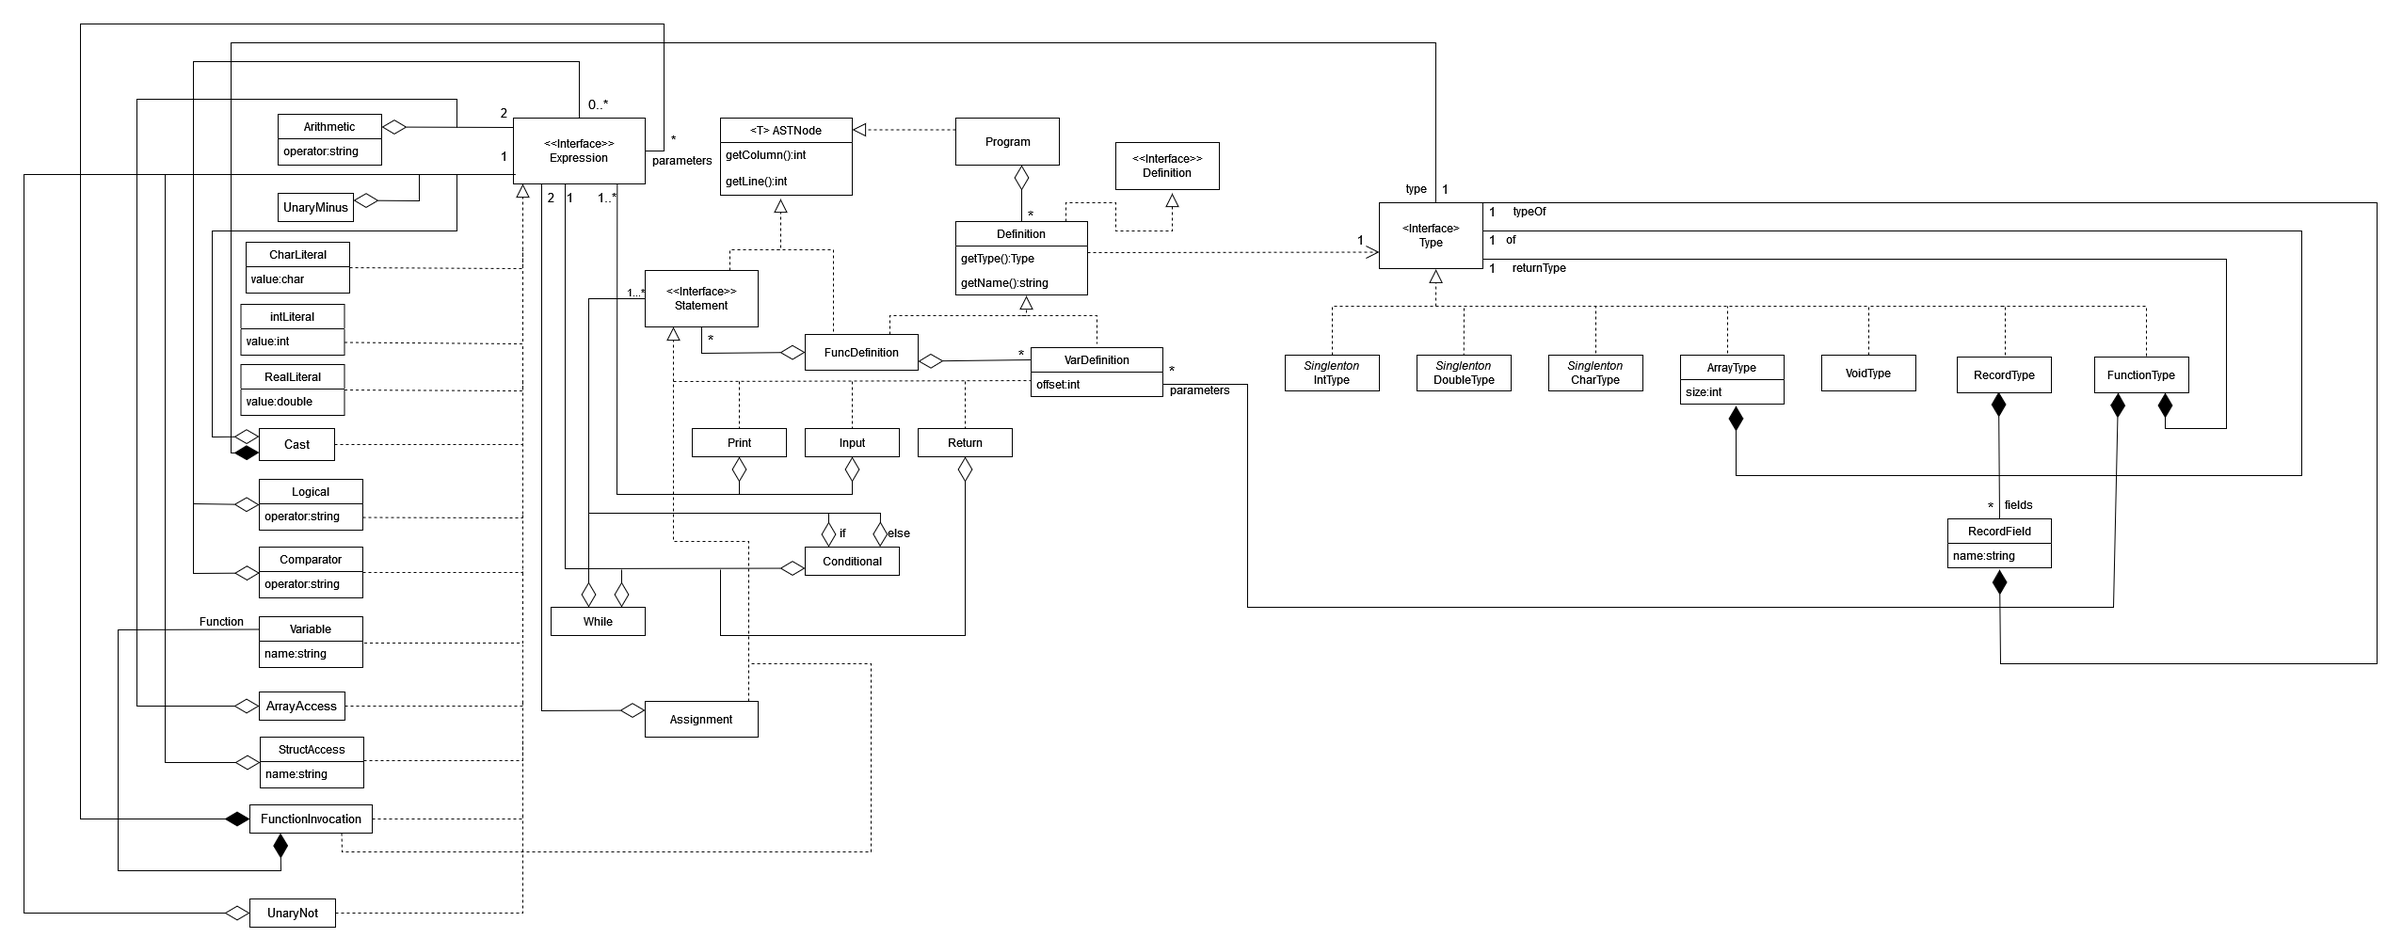
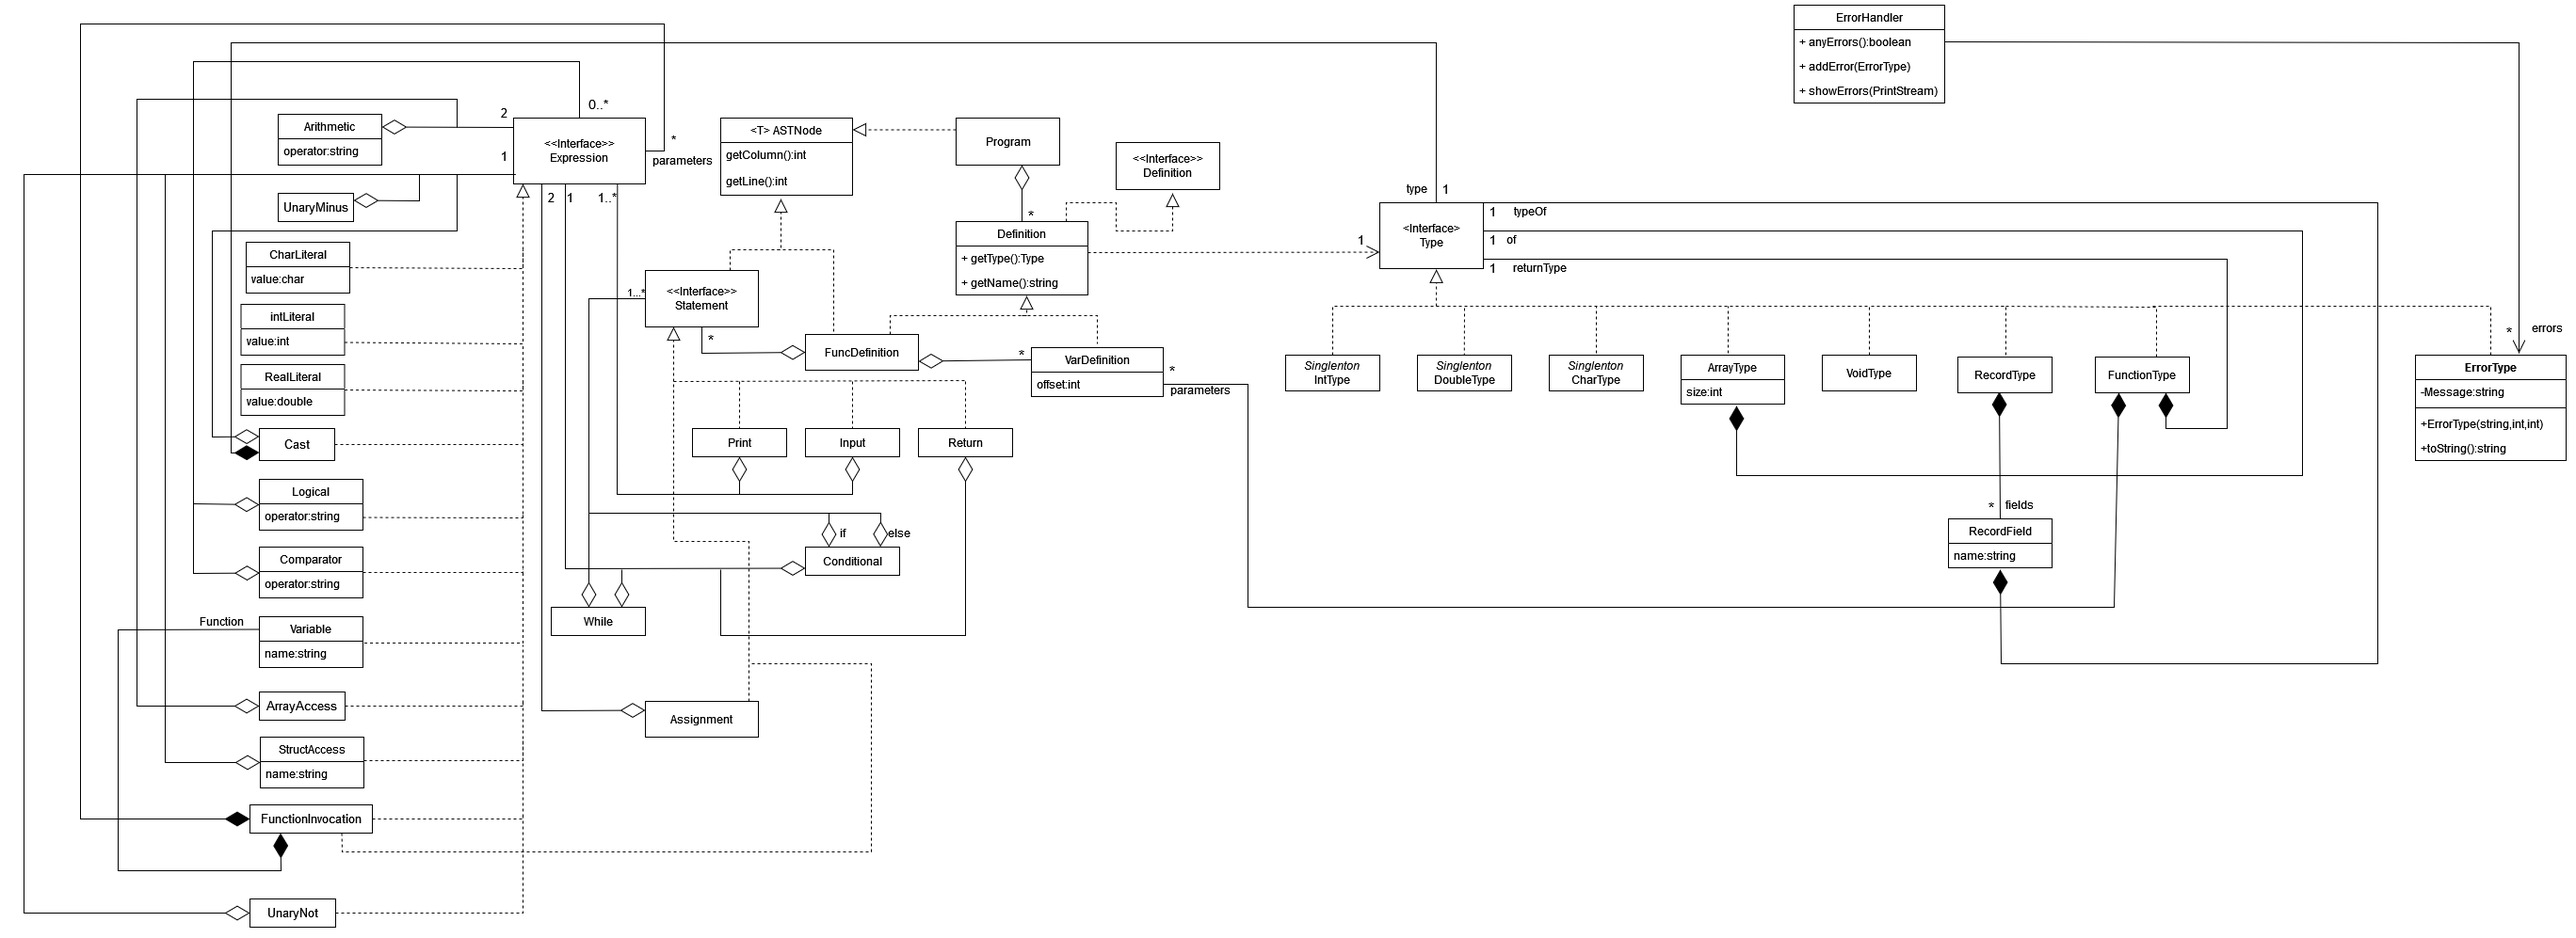
Errores 1

diff --git a/Compiler_uo277876/src/parser/PmmParser.java b/Compiler_uo277876/src/parser/PmmParser.java
@@ -6,6 +6,7 @@ import ast.definitions.*;
 import ast.expressions.*;
 import ast.statements.*;
 import ast.types.*;
+import errorhandler.*;
 
 import org.antlr.v4.runtime.atn.*;
 import org.antlr.v4.runtime.dfa.DFA;
@@ -825,8 +826,12 @@ public class PmmParser extends Parser {
 			((VarDefinitionContext)_localctx).type = type();
 
 			            for(String id: _localctx.ids){
-			                _localctx.ast.add(
-			                  new VarDefinition(((VarDefinitionContext)_localctx).type.ast,id,((VarDefinitionContext)_localctx).ID1.getLine(),((VarDefinitionContext)_localctx).ID1.getCharPositionInLine()+1));
+			                if(_localctx.ids.contains(id)){
+			                    new ErrorType(id, ((VarDefinitionContext)_localctx).ID1.getCharPositionInLine()+1,"Variable '" + id + "' is already defined.");
+			                } else {
+			                    _localctx.ast.add(
+			                         new VarDefinition(((VarDefinitionContext)_localctx).type.ast,id,((VarDefinitionContext)_localctx).ID1.getLine(),((VarDefinitionContext)_localctx).ID1.getCharPositionInLine()+1));
+			                }
 			            }
 			       
 			setState(172);

diff --git a/Compiler_uo277876/src/Main.java b/Compiler_uo277876/src/Main.java
@@ -1,4 +1,5 @@
 import ast.ASTNode;
+import errorhandler.ErrorHandler;
 import parser.*;
 
 import org.antlr.v4.runtime.*;
@@ -22,14 +23,17 @@ public class Main {
 		// create a parser that feeds off the tokens buffer
 		CommonTokenStream tokens = new CommonTokenStream(lexer); 
 		PmmParser parser = new PmmParser(tokens);	
-		ASTNode ast = parser.program().ast;
-		//ASTNode ast = parser.expression().ast;
-		//ASTNode ast = parser.type().ast
-		//ASTNode ast = parser.statement().ast;
-		//ASTNode ast = parser.funcDefinition().ast;
-
-		// * The AST is shown
-		IntrospectorModel model=new IntrospectorModel("Program", ast);
-		new IntrospectorView("Introspector", model);
+		Program ast = parser.program().ast;
+		
+		// * Check errors
+		if(ErrorHandler.getInstance().anyError()){
+			// * Show errors
+			ErrorHandler.getInstance().showErrors(System.err);
+		}
+		else{
+			// * The AST is shown
+			IntrospectorModel model=new IntrospectorModel("Program", ast);
+			new IntrospectorView("Introspector", model);
+		}
 	}
 }

diff --git a/Compiler_uo277876/src/errorhandler/ErrorHandler.java b/Compiler_uo277876/src/errorhandler/ErrorHandler.java
@@ -1,0 +1,42 @@
+package errorhandler;
+
+import ast.types.ErrorType;
+
+import java.io.PrintStream;
+import java.util.ArrayList;
+import java.util.List;
+
+public class ErrorHandler {
+
+    private static ErrorHandler errorHandler = new ErrorHandler();
+    private List<ErrorType> errors;
+
+    public ErrorHandler(){
+        this.errors = new ArrayList<ErrorType>();
+    }
+
+    public boolean anyError(){
+        if(errors.size() != 0){
+            return true;
+        } else {
+            return false;
+        }
+    }
+
+    public static ErrorHandler getInstance(){
+        if (errorHandler == null){
+            errorHandler = new ErrorHandler();
+        }
+        return errorHandler;
+    }
+
+    public void showErrors(PrintStream ps){
+        for(ErrorType error : errors){
+            ps.println(error);
+        }
+    }
+
+    public void addError(ErrorType et){
+        errors.add(et);
+    }
+}

diff --git a/Compiler_uo277876/src/ast/types/ErrorType.java b/Compiler_uo277876/src/ast/types/ErrorType.java
@@ -1,0 +1,24 @@
+package ast.types;
+
+import errorhandler.ErrorHandler;
+
+public class ErrorType extends AbstractType{
+
+    private String message;
+
+    public ErrorType(String message, int line, int column){
+        super(line,column);
+        this.message = message;
+
+        ErrorHandler.getInstance().addError(this);
+    }
+
+    public String getMessage() {
+        return message;
+    }
+
+    public String toString(){
+        return "Error: " + message;
+    }
+
+}

diff --git a/Compiler_uo277876/src/parser/PmmLexer.java b/Compiler_uo277876/src/parser/PmmLexer.java
@@ -6,6 +6,7 @@ import ast.definitions.*;
 import ast.expressions.*;
 import ast.statements.*;
 import ast.types.*;
+import errorhandler.*;
 
 import org.antlr.v4.runtime.Lexer;
 import org.antlr.v4.runtime.CharStream;

diff --git a/Compiler_uo277876/src/parser/PmmBaseVisitor.java b/Compiler_uo277876/src/parser/PmmBaseVisitor.java
@@ -6,6 +6,7 @@ import ast.definitions.*;
 import ast.expressions.*;
 import ast.statements.*;
 import ast.types.*;
+import errorhandler.*;
 
 import org.antlr.v4.runtime.tree.AbstractParseTreeVisitor;
 

diff --git a/Compiler_uo277876/src/parser/PmmVisitor.java b/Compiler_uo277876/src/parser/PmmVisitor.java
@@ -6,6 +6,7 @@ import ast.definitions.*;
 import ast.expressions.*;
 import ast.statements.*;
 import ast.types.*;
+import errorhandler.*;
 
 import org.antlr.v4.runtime.tree.ParseTreeVisitor;
 
